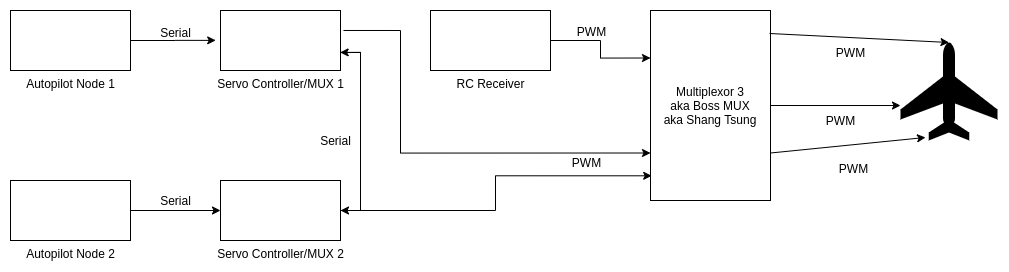
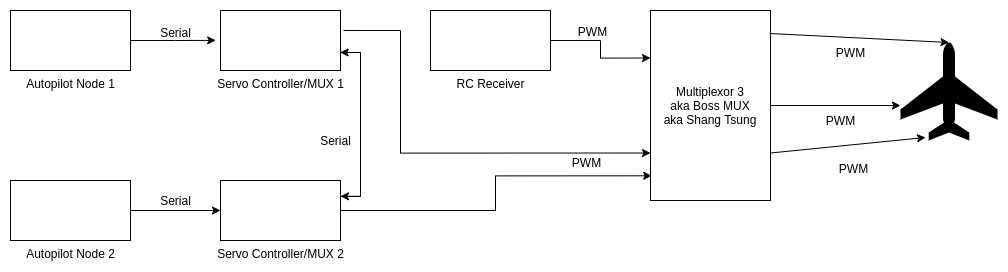
:control_state and {:pv_cmds, level} using MessageSorter pub/sub in Controller.

diff --git a/blog/4_attested_development.md b/blog/4_attested_development.md
@@ -1,0 +1,49 @@
+# 4. Attested Development
+Do you ever look back on your life and think: <div align="center"><img src="../blog/gifs/huge_mistake.gif"><sub>[1](https://giphy.com/gifs/11BAxHG7paxJcI)</sub></div>
+
+Great! Me too. And even though I'm constantly convinced I've made it to the other side of *senseless*, I continue to provide examples of the contrary. Today I figured we could talk about one such instance involving our good friend, the ***multiplexor***.<br>
+
+As I'm sure you remember from Part 2, a multiplexor takes input signals from two different sources, and based on some criterion passes only one of them on. This is a very useful tool, as it allows for a direct link between the RC receiver and the servos in the vehicle. If things go south with the autopilot, I can simply switch to manual control, which gives me that extra bit of comfort as I manually pilot the airplane directly into the ground due to poor decision making.<br>
+Things got a little more complicated when I added a second node to the autopilot. Before the servo signal reaches the final multiplexor (which I'm tired of typing, so we'll call it a MUX from now on), there must first be a decision as to which of the two node's signals will be used. If only there were a way to choose between two input signals...That's right! More multiplexors. I mean MUXs. MUXes? MUXi? So basically this autopilot is just turtles all the way down. Perhaps a diagram will help. Let's start with the single-node configuration (created using https://app.diagrams.net/, formerly http://draw.io)<p align="center"><img src="../blog/drawings/single_mux.png" width="70%"></p>
+
+> In case the acronym *PWM* doesn't ring a bell, it stands for "[Pulse-width modulation](https://en.wikipedia.org/wiki/Servo_control)" and is the type of signal that a servo expects to receive. The fact that I'm sending PWM signals to the MUX is important to note now, because that will change later.<br>
+
+So the aircraft servos are connected to the MUX which is either forwarding autopilot servo commands or RC receiver servo commands. This is pretty simple, and it led to the following hardware stack: <div align="center"><img src="../blog/images/Stacks/FrskyRxFrskyServo/V1/FrskyRxFrskyServo (top).JPG" width="50%"></div>
+
+The RC receiver is on top. Below it is an [Adafruit Feather M0 Basic Proto](https://www.adafruit.com/product/2772) board, loaded with a program that takes serial messages from the autopilot and converts them to PWM signals. In the bottom right is a [4-channel MUX](https://www.pololu.com/product/2806) from Pololu. You may notice there are two yellow/red/black servo connectors coming out of the receiver and exiting to the right (stage left). These were connected directly to the aircraft flaps and landing gear, as this MUX does not have enought channels to support them.<br>
+This setup isn't too bad. The wiring is pretty much as minimal as it could get. But when we expand this design concept to the dual-node configuration, things get ugly. Let's look at the diagram:<p align="center"><img src="../blog/drawings/dual_mux.png"></p>
+
+YIKES. My guess is you didn't bother to look at it closely, and honestly neither would I. But you at least noticed all the extra lines and stuff, right? So why are they necessary? Well, each of the autopilot nodes has two responsibilies:
+1.  Act as primary source for approximately one half of the servos
+2.  Act as secondary source for the rest of the servos
+
+This is the reason there are two MUXes before we even get to the final Boss. MUX 1 and MUX 2 each supply roughly half of the servo outputs, which are combined into a complete input for MUX 3. Perhaps a few scenarios will help. Let's assume that MUX 1 is responsible for channels 1-3, and MUX 2 is responsible for channels 4-6.
+### Scenario 1: Normal Operation
+* MUX 1: uses **primary** inputs, coming from Autopilot Node 1
+* MUX 2: uses **primary** inputs, coming from Autopilot Node 2
+
+### Scenario 2: Autopilot Node 1 is dead
+* MUX 1: uses **secondary** inputs, coming from Autopilot Node 2
+* MUX 2: uses **primary** inputs, coming from Autopilot Node 2
+
+### Scenario 3: Autopilot Node 2 is dead
+* MUX 1: uses **primary** inputs, coming from Autopilot Node 1
+* MUX 2: uses **secondary** inputs, coming from Autopilot Node 1
+
+So as long as one of the autopilot nodes is healthy and producing servo commands, all of the servos will be covered. But still, this is a pretty dense solution. Steve Holt!<p align="center"><img src="../blog/images/Stacks/Dual Mux Stack/V1/dual_mux (top).jpg" width="80%"></p>
+> In this example, servo control is coming from Pololu [Maestro Servo Controllers](https://www.pololu.com/product/1350). This setup was actually created before the single-node setup mentioned earlier, so the chronology is a bit out of order here. The next revision we see will again feature the Feather M0. And if you're looking for the RC receiver, it's hiding under the monster [8-channel MUX](https://acroname.com/store/s56-rxmux-1) from Acroname.<br>
+## Where did we go wrong?
+How did the addition of just one more node turn this solution into such a hardware nightware? Allow me to highlight the assumptions that were carried from the single-node setup to the dual-node setup.<p align="center"><img src="images/web/the_blue_part_is_land.jpg"><sub>[2](https://i.pinimg.com/originals/58/03/1b/58031bef9a023a631b17e34884a7e18c.jpg)</sub></p>
+The requirements had changed, but I did not revisit any of the decisions that went into the design of the single-mux configuration. I just took that concept and made it bigger. The two most impactful assumptions were:<br>
+  
+  1.  I need to use a dedicated servo controller to produce PWM signals
+  2.  I need to use an off-the-shelf MUX rather than create my own
+
+Assumption #2 was somewhat of a byproduct of #1. If I'm using a separate PWM controller, than my signals will be PWM, and therefore an off-the-shelf MUX makes total sense. But what if I could use a microcontroller to generate PWM signals? Could I also use that board to act as a MUX? And if my MUX is on a microcontoller, do I need to send PWM signals to it, or I can use something more versatile, like UART? Great questions. Here's the updated diagram with the answer:<p align="center"><img src="drawings/dual_mux_feather.png"><br>Dual-MUX with Arduino</p>
+As you can see, things got a lot simpler. The *Servo Controller/MUX* is a Feather M0 board that takes two serial inputs &#8212; one from the Autopilot node (primary), and one from the other Servo Controller/MUX (secondary) &#8212; and selects the appropriate one. At this point, it converts these serial commands into PWM signals, which are sent along to Boss MUX 3. And if this much sleeker diagram isn't enough to get you excited, then check out what this means for the hardware. There are way fewer wires, and it takes up much less space.<p align="center"><img src="images/Stacks/Dual Mux Stack/V2/Dual Mux Stack (top).JPG" width="40%">&nbsp;&nbsp;&nbsp;&nbsp;<img src="images/Stacks/Dual Mux Stack/V2/Dual Mux Stack (front).JPG" width="40%"><br><img src="images/Stacks/Dual Mux Stack/comparison.jpeg" width="50%"><p align="center">
+
+## <ins>What's the point?</ins>
+Oh, you wanted a moral to this story? :cold_sweat: Let's start with what I do know. I lived with that bulky dual-MUX setup **for weeks**. The moment I had the idea to make my own MUX, the rest of the design fell into place, and the hardware became a lot smaller (yes, I realize it's taller, but imagine the airplane like it's a moving truck &#8212; floorspace is premium). In my gut I knew that the original solution just wasn't cutting it. I think I accepted the status quo because I figured I was using commerially available parts, so that must be as good as it gets. What's the lesson? Geez, I'm not exactly sure. But I think it has something to do with always leaving a note...<br>
+
+Come back next time and we'll discuss how I was able to test the software and hardware in a realistic simulation environment. I would X-plane further, but I don't want to give it away. :wink: <br><br>
+-Greg
